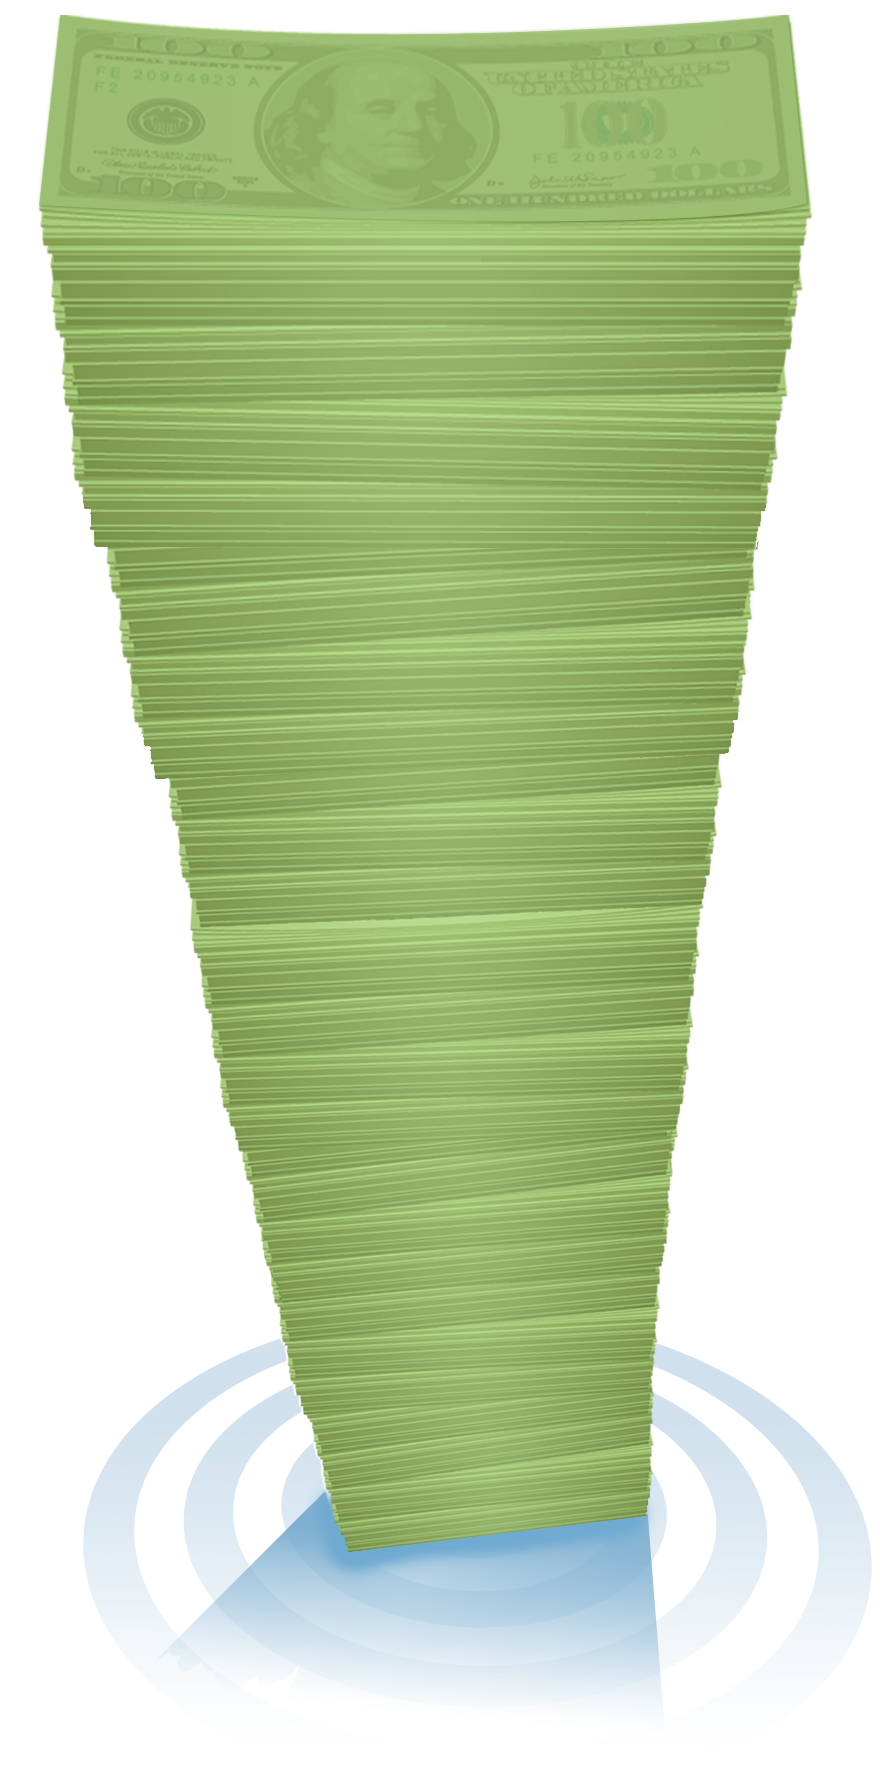
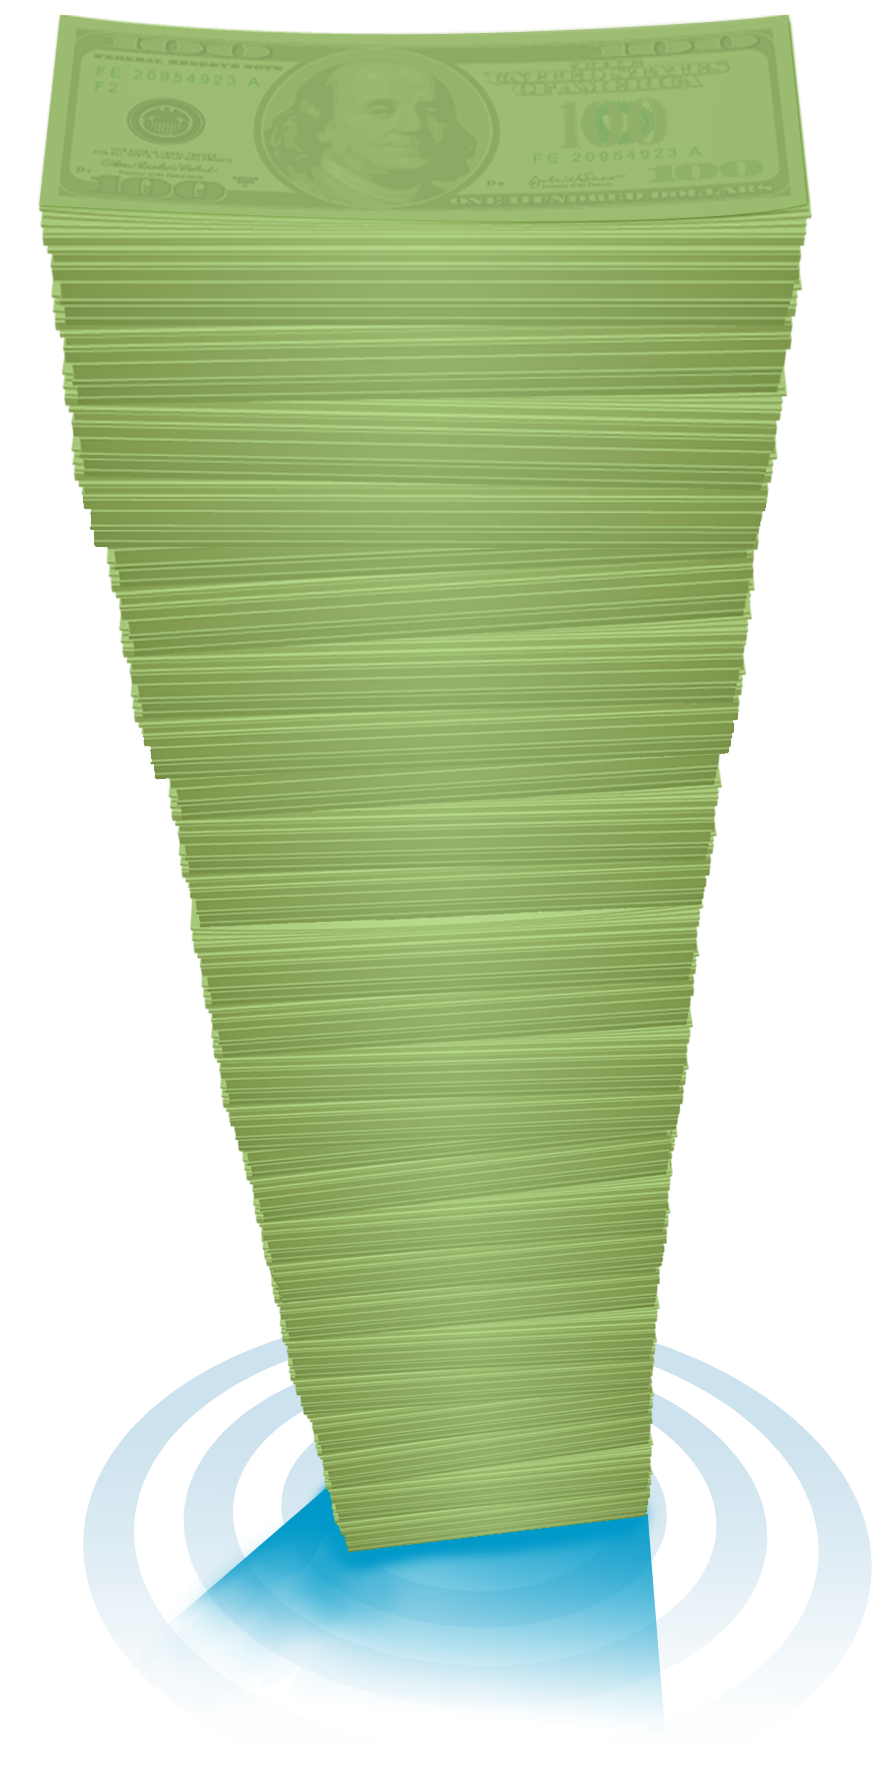
updated pricing page xml - also cleaned up the audience page cash stack graphic

Changed region(s): [[0.2148, 0.838, 0.767, 0.9622]]

diff --git a/templates/audience.html b/templates/audience.html
@@ -14,8 +14,8 @@
 
 <div class="engage_banner" style="width:610px; height:150px; background-color:#1e5676; position:absolute; bottom:0">
 <img src="images/engageVertText.png" style="margin-top:16px; margin-left:33px;" />
-<div style="position:absolute; bottom:-43px; left:102px; vertical-align:top;font-family:KnockoutHTF26JuniorFlyweighRg; font-size:13.7em; PADDING:0;margin:0;letter-spacing:2px;">12,000</div>
-<div style="font-family:KnockoutHTF26JuniorFlyweighRg; font-size:4.2em; PADDING:0;position:absolute; bottom:30px; left:328px; line-height:.99em;">DIRECT MARKETING<BR />PROFESSIONALS</div>
+<div style="position:absolute; bottom:-43px; left:102px; vertical-align:top;font-family:KnockoutHTF26JuniorFlyweighRg; font-size:13.7em; PADDING:0;margin:0;letter-spacing:2px;"><%=audiencePage.industrySize%></div>
+<div style="font-family:KnockoutHTF26JuniorFlyweighRg; font-size:4.2em; PADDING:0;position:absolute; bottom:30px; left:328px; line-height:.99em;"><%=audiencePage.industryType%><BR />PROFESSIONALS</div>
 
 
 
@@ -33,17 +33,14 @@
 <div class="spacer-25px"></div>
 <div class="spacer-25px"></div>
 <div class="spacer-25px"></div>
-$155 BILLION DOLLARS ANNUALLY</div>
+<%=audiencePage.industrySpend%> ANNUALLY</div>
 
 <div class="cash_summary" style="position:absolute; bottom:0; width:740px; height:190px; margin-left:auto;margin-right:auto">
 <table style="width:100%; height:100%"><tr>
 <td style="color:#ffffff;font-family:KnockoutHTF26JuniorFlyweighRg; font-size:9em;text-align:left; line-height:.8999em; width:423px;">WHILE TARGETING<BR />YOUR MESSAGE FOR:</td>
 <td style="vertical-align:top; text-align:left;" VALIGN="TOP">
 <ul style="list-style-type:disc; color:#ffed5c; font-size:2.2em; vertical-align:top;">
-<li>Marketers</li>
-<li>Consultants</li>
-<li>Non-Profits</li>
-<li>Intl Organizations</li>
+<%=audiencePage.industryMembers%>
 </ul>
 
 
